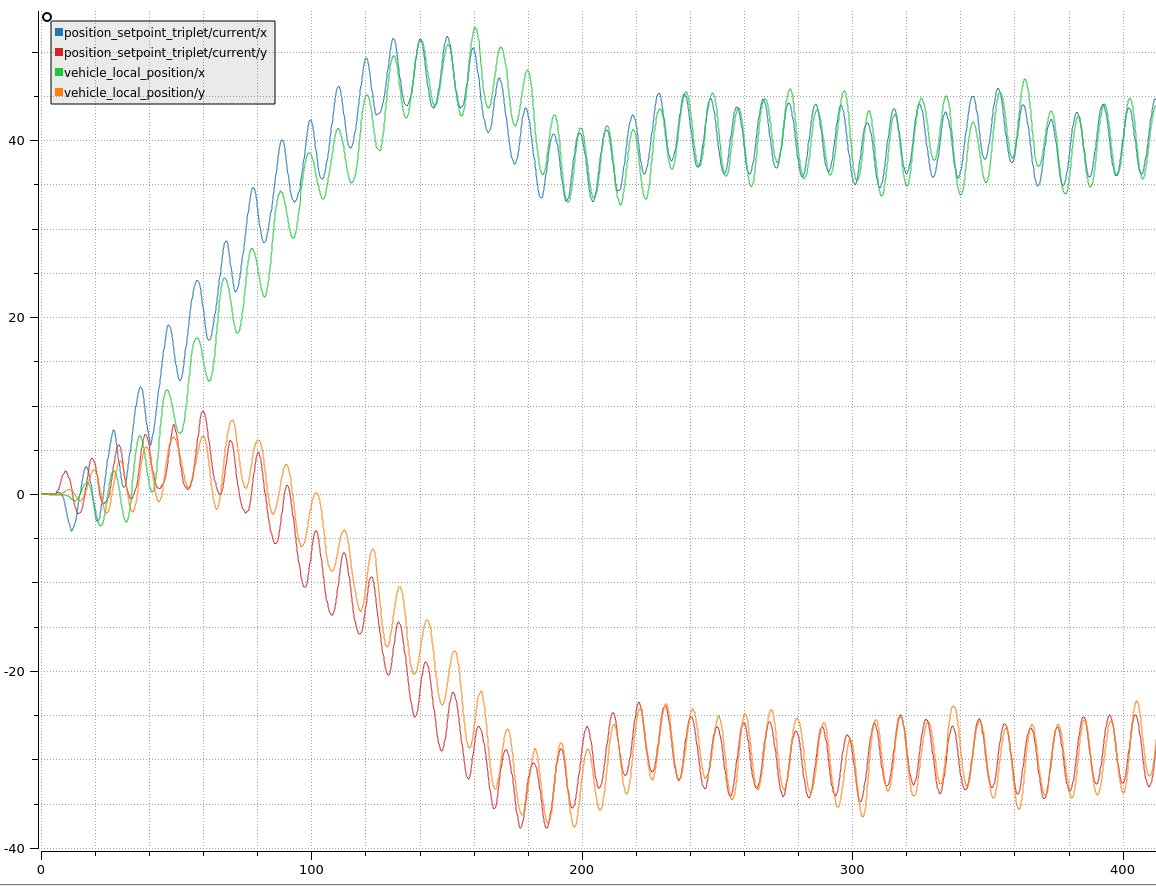
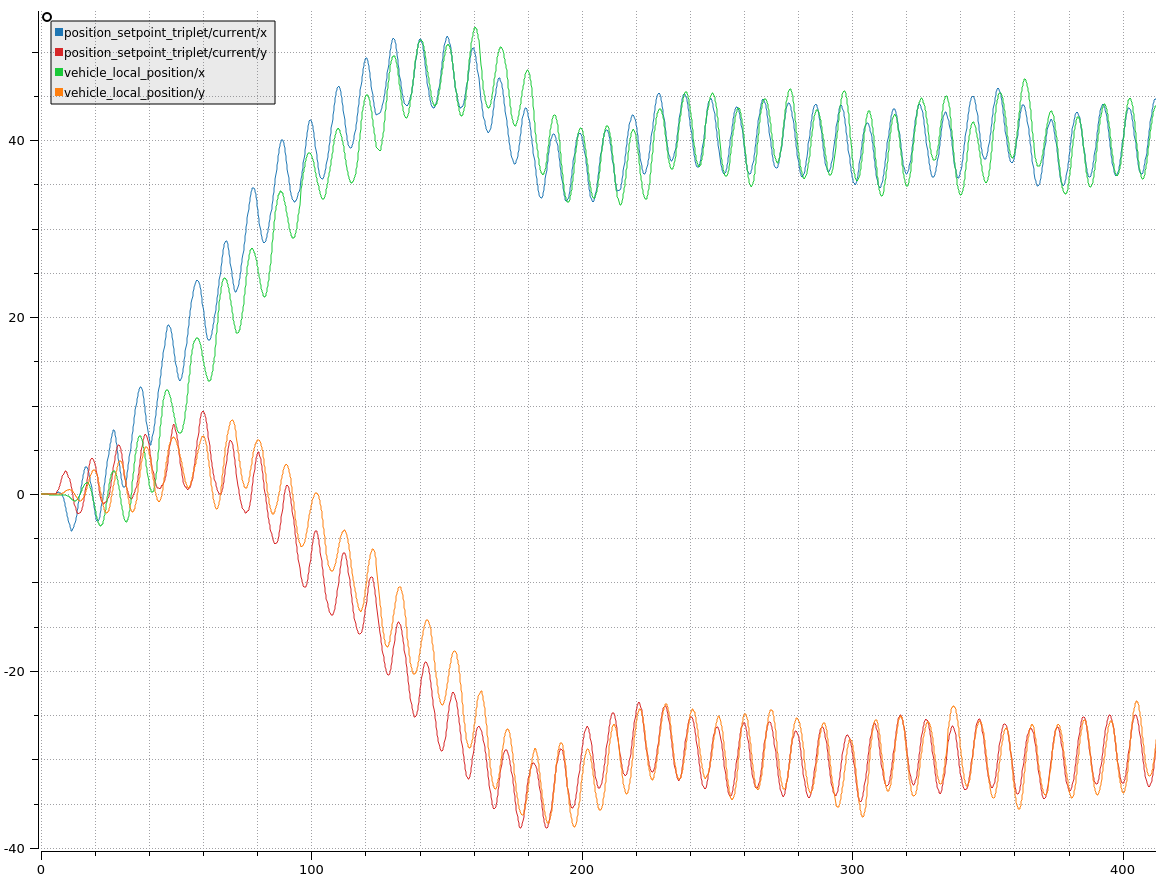
Readme Update

diff --git a/README.md b/README.md
@@ -1,6 +1,6 @@
 # PX4 Drone Autopilot
 ## Internal Model Based Regulator
-<img src="https://github.com/lorenzogentilini/ab_es_proj_firmware/blob/devel/lorenzo/support_files/positions.png" width = 50% height = 40% />
+<img src="https://github.com/lorenzogentilini/ab_es_proj_firmware/blob/devel/lorenzo/support_files/positions.png" width = 80% height = 40% />
 
 
 
